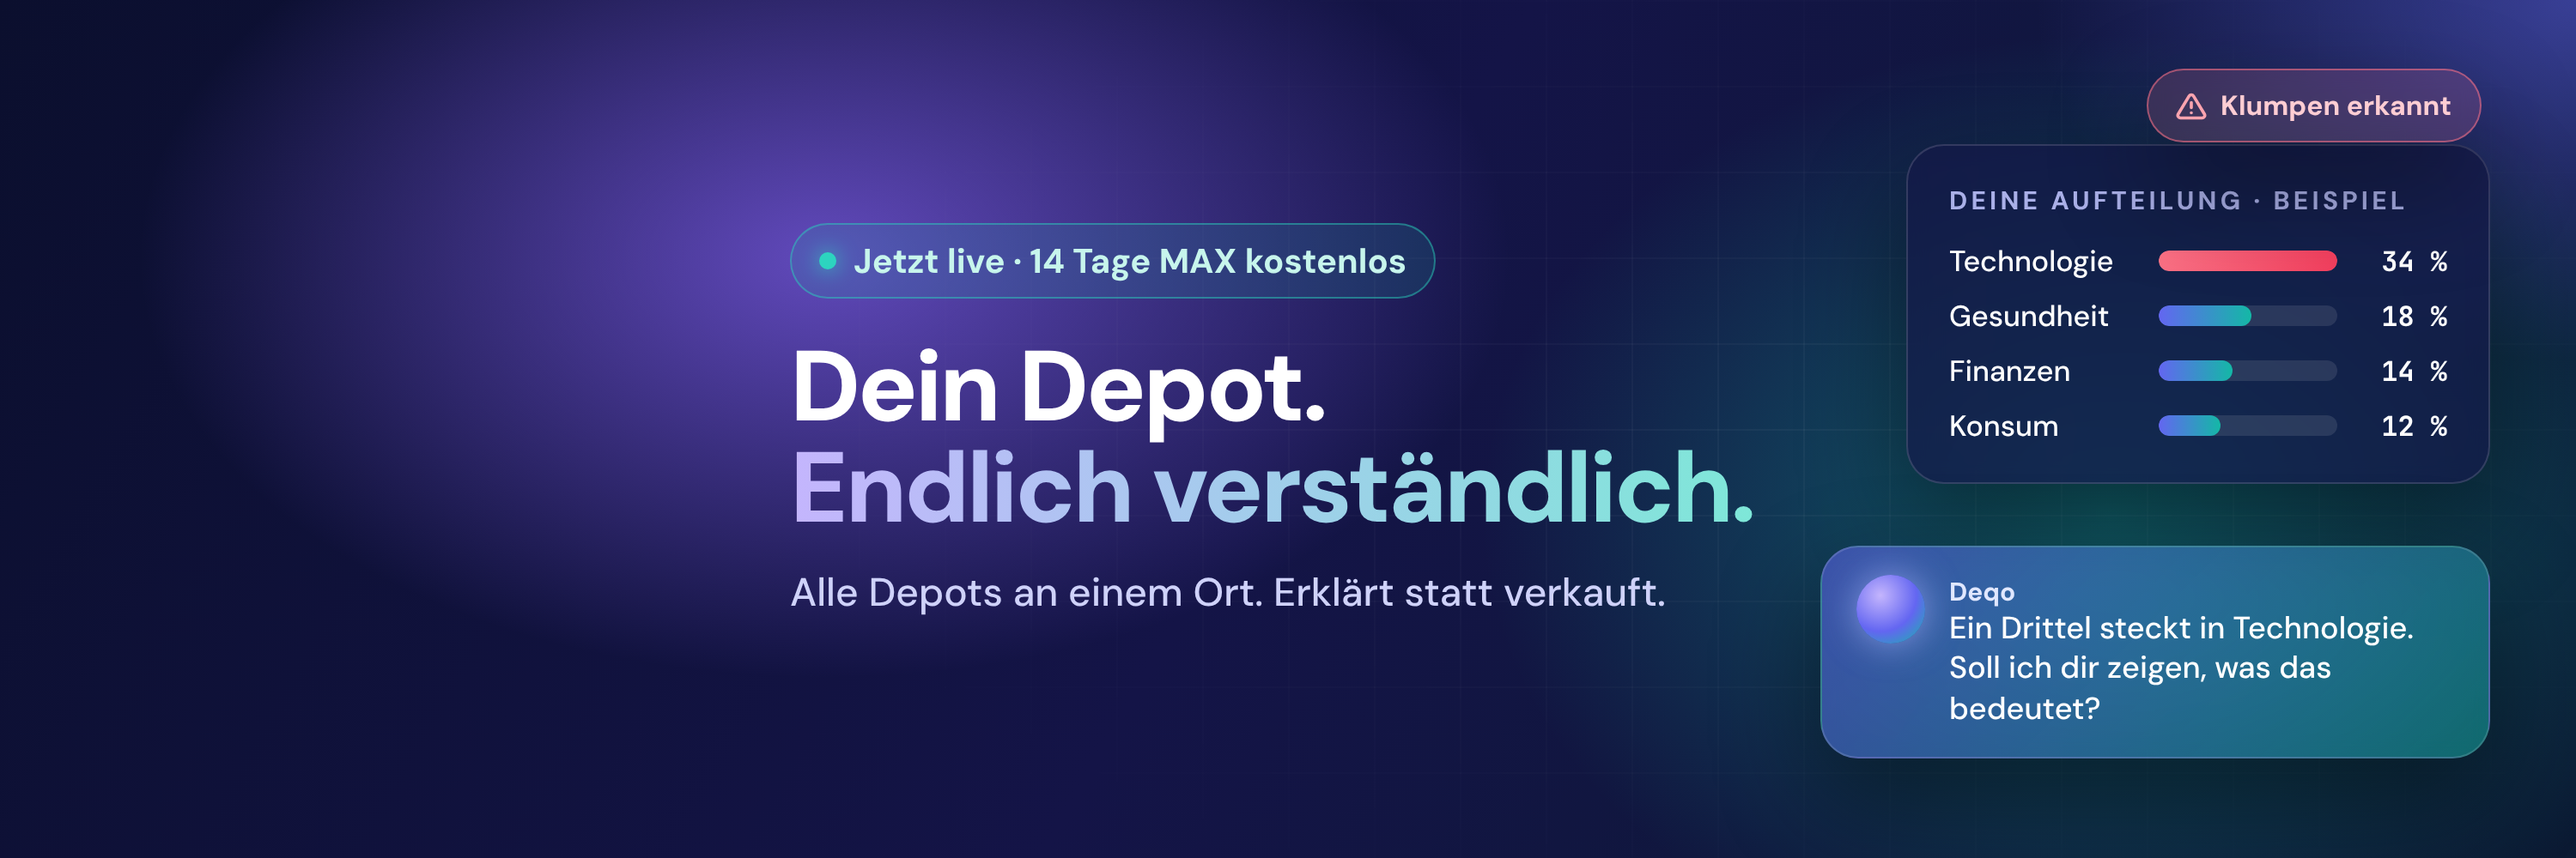
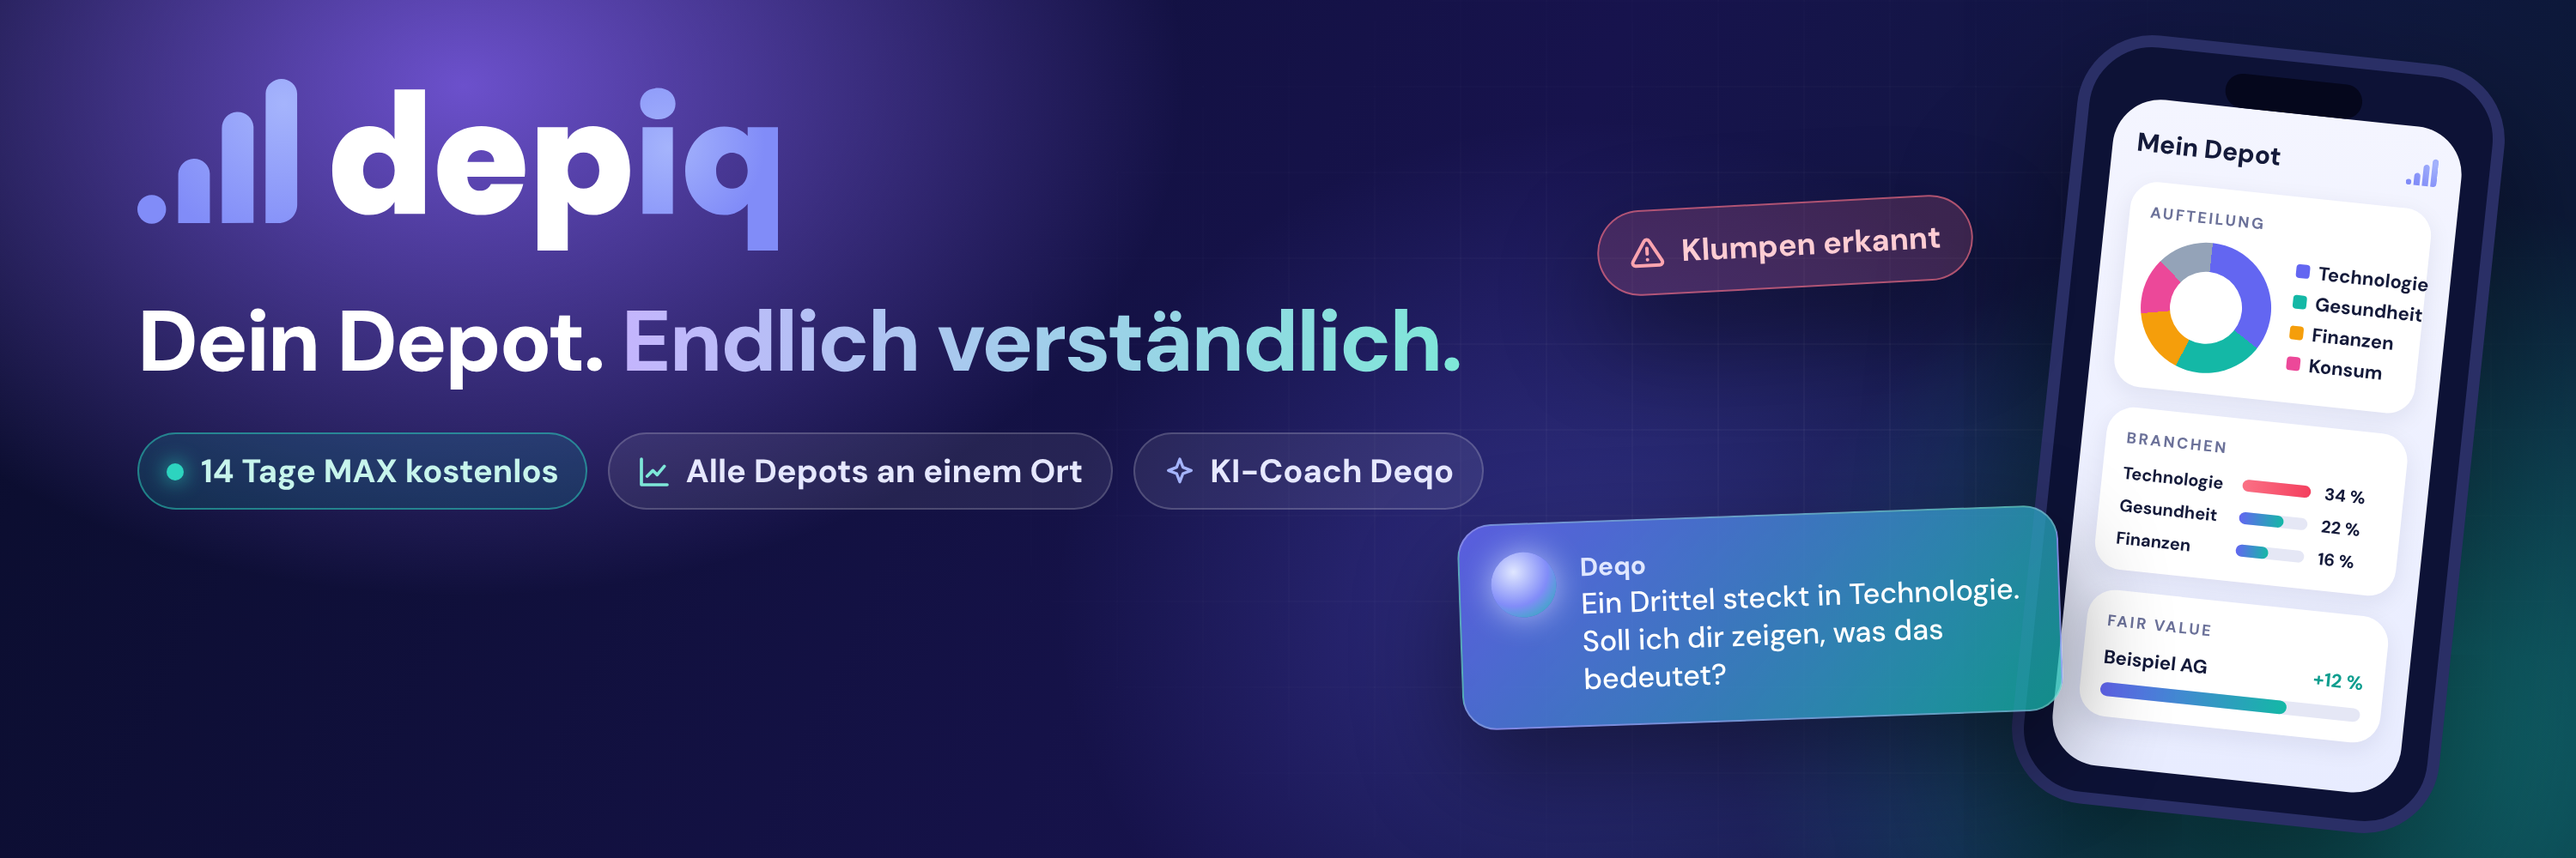
X-Titelbild neu verteilt (Text oben links, Smartphone rechts, Hinweiskarten mittig)
Claude-Session: https://claude.ai/code/session_01TCMRwfkoPUXt6cdHJjM9Lg

diff --git a/vorlage/x-titelbild-final.html b/vorlage/x-titelbild-final.html
@@ -1,0 +1,73 @@
+<!doctype html><html lang="de"><head><meta charset="utf-8">
+<!-- X-Titelbild 1500 × 500 (Ausbau von Variante A). Profilbild liegt unten links ab ca. 330 px Höhe, 60–460 px breit:
+     Text steht deshalb oben links darüber, das Smartphone rechts, Hinweiskarten in der Mitte. -->
+<style>
+@font-face{font-family:'DM Sans';font-weight:500;src:url(schrift/dm-sans-500.woff2)}
+@font-face{font-family:'DM Sans';font-weight:700;src:url(schrift/dm-sans-700.woff2)}
+@font-face{font-family:'DM Sans';font-weight:800;src:url(schrift/dm-sans-800.woff2)}
+@font-face{font-family:'JB';font-weight:700;src:url(schrift/jetbrains-mono-700.woff2)}
+*{box-sizing:border-box;margin:0}
+html,body{width:1500px;height:500px;overflow:hidden}
+body{font-family:'DM Sans',sans-serif;color:#fff;position:relative;background:#0a0d2c}
+em{font-style:normal;background:linear-gradient(90deg,#c4b5fd,#7ee7d8);-webkit-background-clip:text;color:transparent}
+.bg{position:absolute;inset:0;background:
+ radial-gradient(ellipse 40% 85% at 18% 10%, rgba(124,92,230,.85), transparent 70%),
+ radial-gradient(ellipse 30% 80% at 62% 70%, rgba(99,102,241,.35), transparent 70%),
+ radial-gradient(ellipse 35% 90% at 92% 85%, rgba(20,184,166,.55), transparent 70%),
+ linear-gradient(115deg,#0a0d2c,#17134d 55%,#0a1c33)}
+.raster{position:absolute;inset:0;background-image:linear-gradient(rgba(255,255,255,.035) 1px,transparent 1px),linear-gradient(90deg,rgba(255,255,255,.035) 1px,transparent 1px);background-size:50px 50px;mask-image:radial-gradient(ellipse 50% 90% at 70% 50%,#000,transparent 75%)}
+.links{position:absolute;left:80px;top:46px}
+.logo{height:100px;display:block}
+h1{font-size:50px;font-weight:800;letter-spacing:-.025em;margin:20px 0 20px;white-space:nowrap}
+.chips{display:flex;gap:12px}
+.chip{display:inline-flex;align-items:center;gap:8px;font-size:19px;font-weight:700;padding:9px 16px;border-radius:999px;background:rgba(255,255,255,.08);border:1.5px solid rgba(255,255,255,.18);color:#e6e8ff}
+.chip svg{width:20px;height:20px}
+.live{display:inline-flex;align-items:center;gap:10px;font-size:19px;font-weight:700;color:#c7f5ec;padding:9px 16px;border-radius:999px;background:rgba(20,184,166,.16);border:1.5px solid rgba(45,212,191,.5)}
+.live i{width:10px;height:10px;border-radius:50%;background:#2dd4bf;box-shadow:0 0 12px #2dd4bf}
+.handy{position:absolute;left:1190px;top:28px;width:250px;height:450px;border-radius:44px;background:#0d1236;border:7px solid #2a2f66;box-shadow:0 40px 90px rgba(0,0,0,.6);padding:30px 16px 16px;transform:rotate(6deg)}
+.notch{position:absolute;top:10px;left:50%;transform:translateX(-50%);width:80px;height:20px;border-radius:20px;background:#05071c}
+.screen{height:100%;border-radius:28px;background:linear-gradient(180deg,#f4f5ff,#e8ecff);color:#141a3a;padding:16px 14px;display:flex;flex-direction:column;gap:12px}
+.screen .t{font-size:15px;font-weight:800;display:flex;justify-content:space-between;align-items:center}
+.screen .t img{height:18px}
+.kart{background:#fff;border-radius:16px;padding:12px;box-shadow:0 4px 14px rgba(20,26,58,.08)}
+.kart h4{font-size:9px;letter-spacing:.14em;color:#6b7199;margin-bottom:8px}
+.donutz{display:flex;gap:12px;align-items:center}
+.donut{flex:none;width:76px;height:76px;border-radius:50%;background:conic-gradient(#6366f1 0 34%,#14b8a6 34% 56%,#f59e0b 56% 72%,#ec4899 72% 86%,#94a3b8 86% 100%);position:relative}
+.donut:after{content:"";position:absolute;inset:17px;border-radius:50%;background:#fff}
+.leg{white-space:nowrap;font-size:11px;font-weight:700;display:flex;flex-direction:column;gap:4px}
+.leg span:before{content:"";display:inline-block;width:8px;height:8px;border-radius:2px;margin-right:5px;background:var(--c)}
+.fv div{font-size:11px;font-weight:700;display:flex;justify-content:space-between}
+.fv .bar{height:8px;border-radius:9px;background:#e5e7f5;margin-top:8px}.fv .bar b{display:block;width:72%;height:100%;border-radius:9px;background:linear-gradient(90deg,#6366f1,#14b8a6)}
+.zeile{display:grid;grid-template-columns:62px 1fr 34px;gap:8px;align-items:center;font-size:10px;font-weight:700;margin-top:6px}
+.zeile .s{height:7px;border-radius:9px;background:#e5e7f5}.zeile .s b{display:block;height:100%;border-radius:9px;background:linear-gradient(90deg,#6366f1,#14b8a6)}
+.zeile .s b.rot{background:linear-gradient(90deg,#fb7185,#f43f5e)}
+.schwebe{position:absolute;z-index:5;border-radius:20px;box-shadow:0 24px 60px rgba(0,0,0,.45)}
+.warn{left:930px;top:118px;padding:12px 18px;font-size:18px;font-weight:700;display:flex;gap:10px;align-items:center;background:rgba(251,113,133,.18);border:1.5px solid rgba(251,113,133,.6);color:#fecdd3;border-radius:999px;transform:rotate(-3deg)}
+.deqo{left:850px;top:300px;width:350px;padding:16px 18px;display:flex;gap:14px;align-items:flex-start;background:linear-gradient(135deg,rgba(99,102,241,.85),rgba(20,184,166,.75));border:1.5px solid rgba(255,255,255,.25);transform:rotate(-2deg)}
+.orb{flex:none;width:38px;height:38px;border-radius:50%;background:radial-gradient(circle at 35% 30%,#e0e7ff,#818cf8 55%,#14b8a6);box-shadow:0 0 18px rgba(199,210,254,.8)}
+.deqo b{display:block;font-size:15px;color:#e0e7ff}
+.deqo span{font-size:17px;font-weight:500;line-height:1.3}
+</style></head><body>
+<div class="bg"></div><div class="raster"></div>
+<svg width="0" height="0" style="position:absolute"><defs>
+ <symbol id="i-depot" viewBox="0 0 24 24"><path d="M3 3v18h18M7 15l4-4 3 3 5-6" fill="none" stroke="#7ee7d8" stroke-width="2.2" stroke-linecap="round" stroke-linejoin="round"/></symbol>
+ <symbol id="i-deqo" viewBox="0 0 24 24"><path d="M12 3l2.2 5.8L20 11l-5.8 2.2L12 19l-2.2-5.8L4 11l5.8-2.2z" fill="none" stroke="#a5b4fc" stroke-width="2" stroke-linejoin="round"/></symbol>
+</defs></svg>
+<div class="links">
+ <img class="logo" src="logo-dark.svg" alt="">
+ <h1>Dein Depot. <em>Endlich verständlich.</em></h1>
+ <div class="chips"><span class="live"><i></i>14 Tage MAX kostenlos</span><span class="chip"><svg><use href="#i-depot"/></svg>Alle Depots an einem Ort</span><span class="chip"><svg><use href="#i-deqo"/></svg>KI-Coach Deqo</span></div>
+</div>
+<div class="schwebe warn"><svg width="20" height="20" viewBox="0 0 24 24" fill="none" stroke="#fda4af" stroke-width="2.4" stroke-linecap="round" stroke-linejoin="round"><path d="M12 9v4M12 17h.01M10.3 3.9 1.8 18a2 2 0 0 0 1.7 3h17a2 2 0 0 0 1.7-3L13.7 3.9a2 2 0 0 0-3.4 0z"/></svg>Klumpen erkannt</div>
+<div class="schwebe deqo"><div class="orb"></div><div><b>Deqo</b><span>Ein Drittel steckt in Technologie. Soll ich dir zeigen, was das bedeutet?</span></div></div>
+<div class="handy"><div class="notch"></div><div class="screen">
+ <div class="t">Mein Depot<img src="icon-dunkel.svg" alt=""></div>
+ <div class="kart"><h4>AUFTEILUNG</h4><div class="donutz"><div class="donut"></div><div class="leg"><span style="--c:#6366f1">Technologie</span><span style="--c:#14b8a6">Gesundheit</span><span style="--c:#f59e0b">Finanzen</span><span style="--c:#ec4899">Konsum</span></div></div></div>
+ <div class="kart"><h4>BRANCHEN</h4>
+  <div class="zeile"><span>Technologie</span><div class="s"><b class="rot" style="width:100%"></b></div><span>34 %</span></div>
+  <div class="zeile"><span>Gesundheit</span><div class="s"><b style="width:64%"></b></div><span>22 %</span></div>
+  <div class="zeile"><span>Finanzen</span><div class="s"><b style="width:47%"></b></div><span>16 %</span></div>
+ </div>
+ <div class="kart fv"><h4>FAIR VALUE</h4><div><span>Beispiel AG</span><span style="color:#0f9e8f">+12 %</span></div><div class="bar"><b></b></div></div>
+</div></div>
+</body></html>
